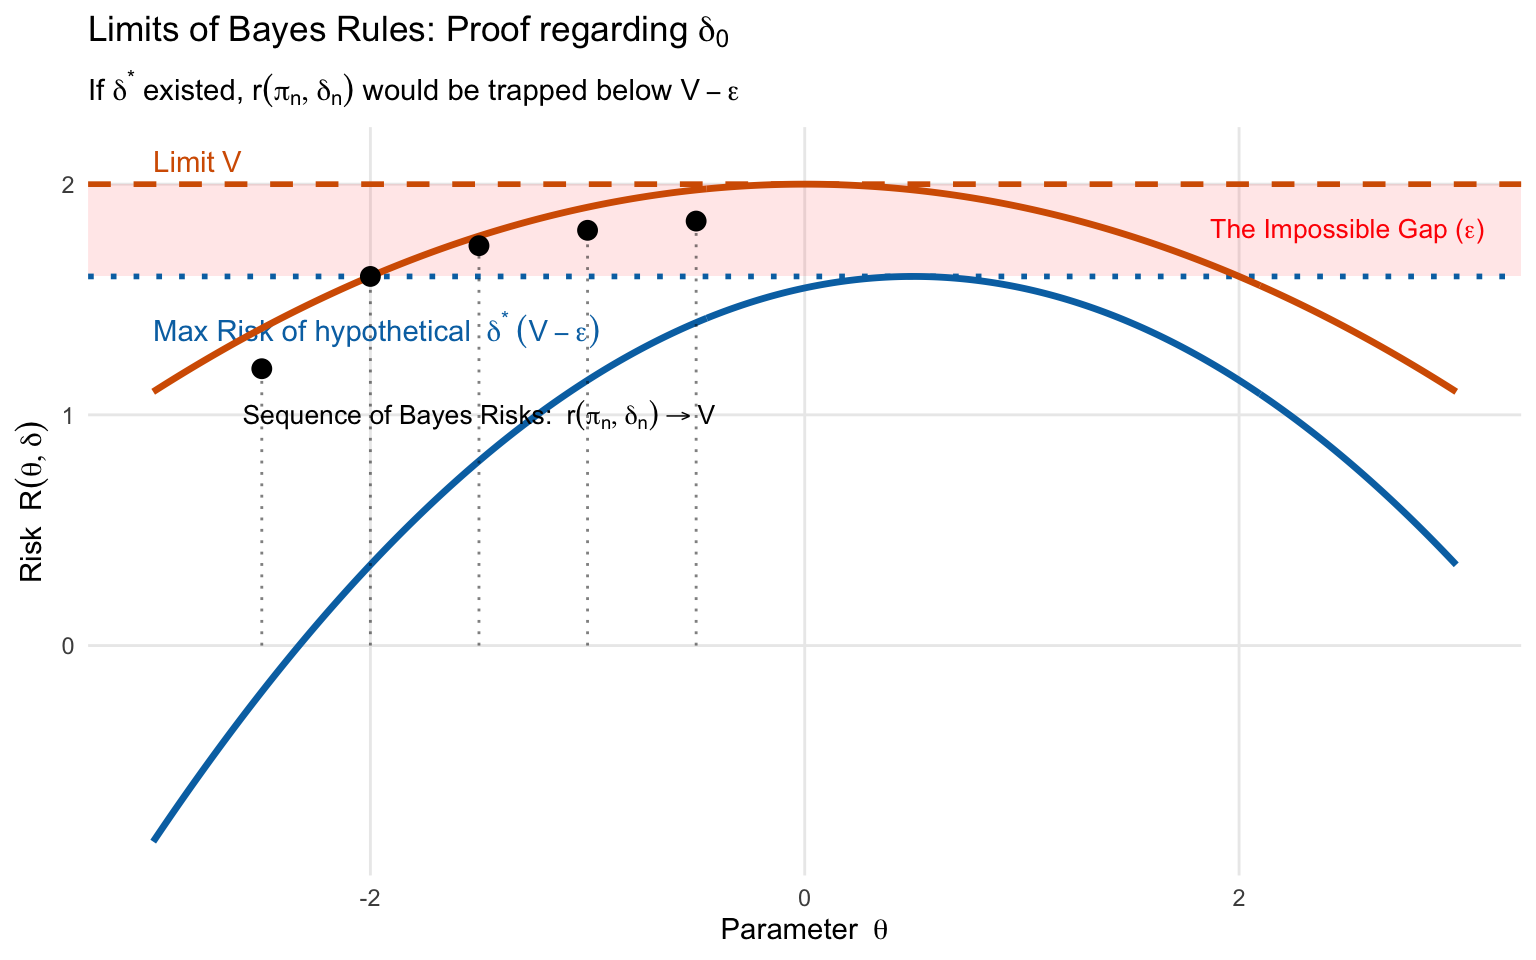
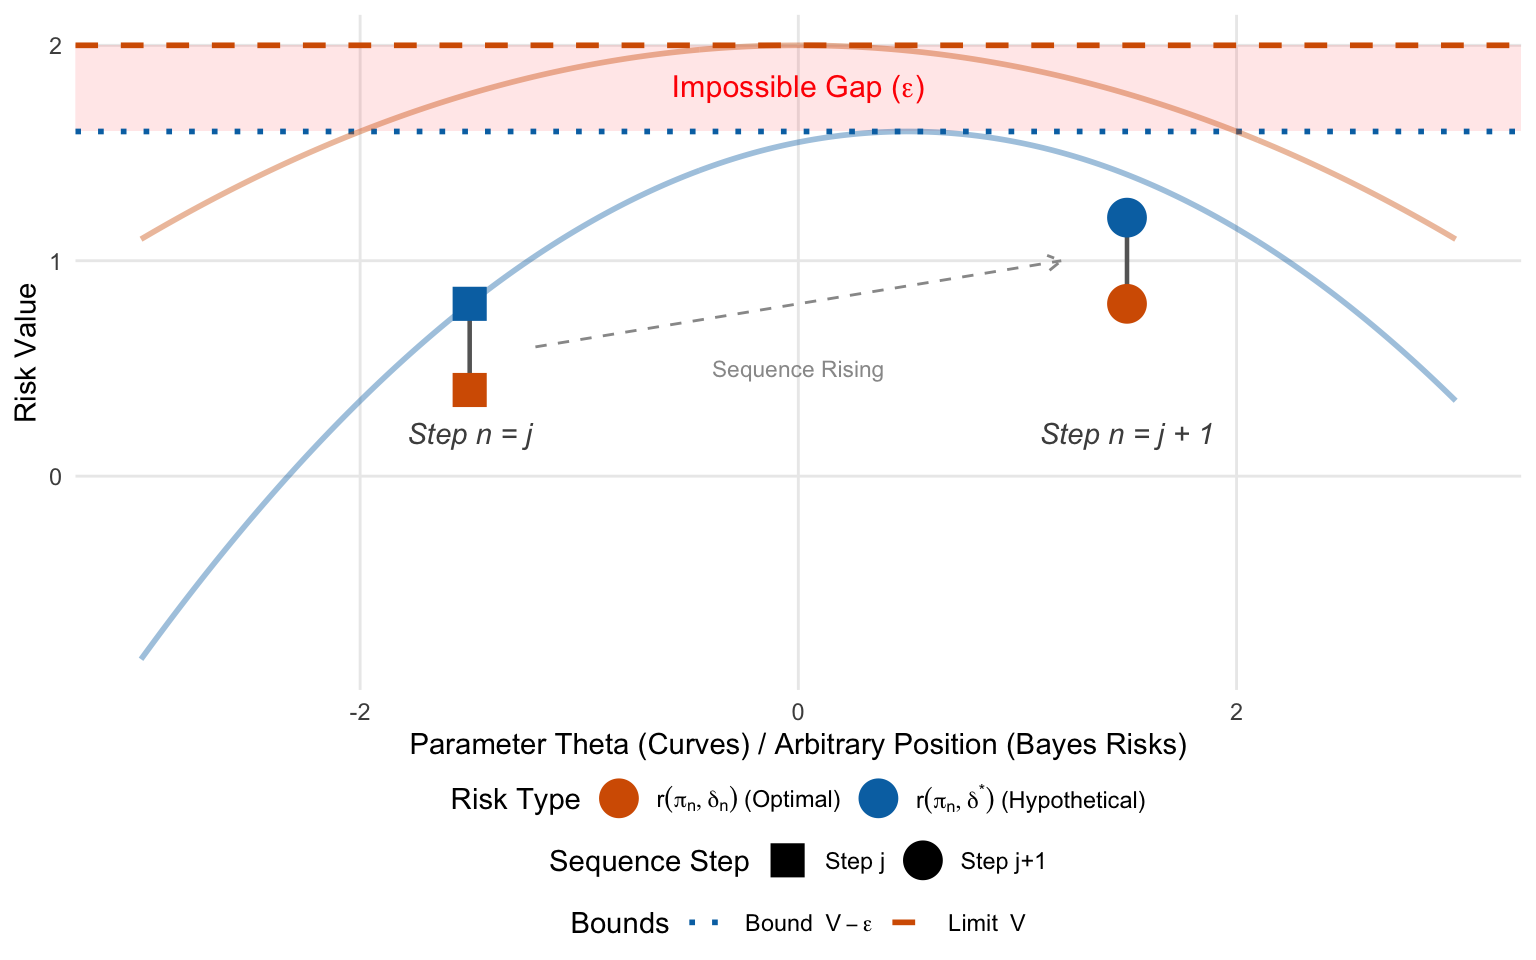
syn2GH from Y3J7JJ9PPF

diff --git a/teaching/stat850/mathstat/decision.html b/teaching/stat850/mathstat/decision.html
@@ -242,7 +242,7 @@ window.Quarto = {
   <li><a href="#theorems-relating-minimax-and-bayes-rules" id="toc-theorems-relating-minimax-and-bayes-rules" class="nav-link" data-scroll-target="#theorems-relating-minimax-and-bayes-rules"><span class="header-section-number">2.7</span> Theorems Relating Minimax and Bayes Rules</a>
   <ul>
   <li><a href="#constant-risk-bayes-rule-is-minimax" id="toc-constant-risk-bayes-rule-is-minimax" class="nav-link" data-scroll-target="#constant-risk-bayes-rule-is-minimax"><span class="header-section-number">2.7.1</span> Constant Risk Bayes Rule Is Minimax</a></li>
-  <li><a href="#limits-of-bayes-rules" id="toc-limits-of-bayes-rules" class="nav-link" data-scroll-target="#limits-of-bayes-rules"><span class="header-section-number">2.7.2</span> Limits of Bayes Rules</a></li>
+  <li><a href="#minimaxity-via-limiting-bayes-risks" id="toc-minimaxity-via-limiting-bayes-risks" class="nav-link" data-scroll-target="#minimaxity-via-limiting-bayes-risks"><span class="header-section-number">2.7.2</span> Minimaxity via Limiting Bayes Risks</a></li>
   <li><a href="#admissibility-of-bayes-rules" id="toc-admissibility-of-bayes-rules" class="nav-link" data-scroll-target="#admissibility-of-bayes-rules"><span class="header-section-number">2.7.3</span> Admissibility of Bayes Rules</a></li>
   <li><a href="#admissibility-of-unique-bayes-rules" id="toc-admissibility-of-unique-bayes-rules" class="nav-link" data-scroll-target="#admissibility-of-unique-bayes-rules"><span class="header-section-number">2.7.4</span> Admissibility of Unique Bayes Rules</a></li>
   </ul></li>
@@ -737,32 +737,31 @@ Figure&nbsp;2.5: Visual Proof: Any alternative estimator (Blue) with Bayes risk 
 </div>
 </div>
 </section>
-<section id="limits-of-bayes-rules" class="level3" data-number="2.7.2">
-<h3 data-number="2.7.2" class="anchored" data-anchor-id="limits-of-bayes-rules"><span class="header-section-number">2.7.2</span> Limits of Bayes Rules</h3>
+<section id="minimaxity-via-limiting-bayes-risks" class="level3" data-number="2.7.2">
+<h3 data-number="2.7.2" class="anchored" data-anchor-id="minimaxity-via-limiting-bayes-risks"><span class="header-section-number">2.7.2</span> Minimaxity via Limiting Bayes Risks</h3>
 <p>Sometimes the Minimax rule corresponds to an “improper” prior (a prior that does not integrate to 1, like a uniform distribution on the real line). We approach these via a limiting sequence.</p>
 <div id="thm-limits" class="theorem">
-<p><span class="theorem-title"><strong>Theorem 2.2 (Limits of Bayes Rules)</strong></span> Let <span class="math inline">\(\{\delta_n\}\)</span> be a sequence of Bayes rules with respect to priors <span class="math inline">\(\{\pi_n\}\)</span>. Let <span class="math inline">\(r(\pi_n, \delta_n)\)</span> be the associated Bayes risks. If there exists a rule <span class="math inline">\(\delta_0\)</span> such that: <span class="math display">\[\sup_{\theta} R(\theta, \delta_0) \le \lim_{n \to \infty} r(\pi_n, \delta_n)\]</span> Then <span class="math inline">\(\delta_0\)</span> is Minimax.</p>
+<p><span class="theorem-title"><strong>Theorem 2.2 (Minimaxity of Limit-Attaining Rules)</strong></span> Let <span class="math inline">\(\{\delta_n\}\)</span> be a sequence of Bayes rules with respect to priors <span class="math inline">\(\{\pi_n\}\)</span>. Let <span class="math inline">\(r(\pi_n, \delta_n)\)</span> be the associated Bayes risks. If there exists a rule <span class="math inline">\(\delta_0\)</span> such that: <span class="math display">\[\sup_{\theta} R(\theta, \delta_0) \le \lim_{n \to \infty} r(\pi_n, \delta_n)\]</span> Then <span class="math inline">\(\delta_0\)</span> is Minimax.</p>
 </div>
 <div class="proof">
 <p><span class="proof-title"><em>Proof</em>. </span></p>
 <ol type="1">
 <li><p><strong>Define Limit:</strong> Let <span class="math inline">\(V = \lim_{n \to \infty} r(\pi_n, \delta_n)\)</span>. We are given that <span class="math inline">\(\sup_{\theta} R(\theta, \delta_0) \le V\)</span>.</p></li>
 <li><p><strong>Contradiction Setup:</strong> Suppose <span class="math inline">\(\delta_0\)</span> is <em>not</em> Minimax. Then there exists a rule <span class="math inline">\(\delta^*\)</span> such that: <span class="math display">\[\sup_{\theta} R(\theta, \delta^*) &lt; \sup_{\theta} R(\theta, \delta_0) \le V\]</span> Let <span class="math inline">\(\sup_{\theta} R(\theta, \delta^*) = V - \epsilon\)</span> for some <span class="math inline">\(\epsilon &gt; 0\)</span>.</p></li>
-<li><p><strong>Bayes Risk Bound:</strong> For any prior <span class="math inline">\(\pi_n\)</span>, the Bayes risk of <span class="math inline">\(\delta^*\)</span> cannot exceed its maximum risk: <span class="math display">\[r(\pi_n, \delta^*) = \int R(\theta, \delta^*) \pi_n(\theta) d\theta \le \int (V - \epsilon) \pi_n(\theta) d\theta = V - \epsilon\]</span></p></li>
-<li><p><strong>Optimality of <span class="math inline">\(\delta_n\)</span>:</strong> Since <span class="math inline">\(\delta_n\)</span> is the Bayes rule for <span class="math inline">\(\pi_n\)</span>, it minimizes Bayes risk. Thus: <span class="math display">\[r(\pi_n, \delta_n) \le r(\pi_n, \delta^*)\]</span></p></li>
-<li><p><strong>Combining Inequalities:</strong> Combining steps 3 and 4: <span class="math display">\[r(\pi_n, \delta_n) \le V - \epsilon\]</span></p></li>
-<li><p><strong>Taking Limits:</strong> Taking the limit as <span class="math inline">\(n \to \infty\)</span>: <span class="math display">\[\lim_{n \to \infty} r(\pi_n, \delta_n) \le V - \epsilon\]</span> <span class="math display">\[V \le V - \epsilon\]</span> This is a contradiction since <span class="math inline">\(\epsilon &gt; 0\)</span>. Therefore, <span class="math inline">\(\delta_0\)</span> must be Minimax. <span class="math inline">\(\blacksquare\)</span></p></li>
+<li><p><strong>Bounded Risk of <span class="math inline">\(\delta^*\)</span>:</strong> The Bayes risk of <span class="math inline">\(\delta^*\)</span> is bounded by its maximum risk: <span class="math display">\[r(\pi_n, \delta^*) = \int R(\theta, \delta^*) \pi_n(\theta) d\theta \le V - \epsilon\]</span> Therefore, <span class="math inline">\(\lim_{n \to \infty} r(\pi_n, \delta^*) \le V - \epsilon\)</span>.</p></li>
+<li><p><strong>Optimality of <span class="math inline">\(\delta_n\)</span>:</strong> Since <span class="math inline">\(\delta_n\)</span> is the Bayes rule for <span class="math inline">\(\pi_n\)</span>, it minimizes Bayes risk. This creates the inequality pair shown in the figure (Orange <span class="math inline">\(\le\)</span> Blue): <span class="math display">\[r(\pi_n, \delta_n) \le r(\pi_n, \delta^*)\]</span></p></li>
+<li><p><strong>The Contradiction:</strong> Combining the inequalities, we get: <span class="math display">\[\lim_{n \to \infty} r(\pi_n, \delta_n) \le \lim_{n \to \infty} r(\pi_n, \delta^*) \le V - \epsilon\]</span> This implies <span class="math inline">\(V \le V - \epsilon\)</span>, which is impossible. Thus <span class="math inline">\(\delta_0\)</span> must be Minimax. <span class="math inline">\(\blacksquare\)</span></p></li>
 </ol>
 </div>
-<div class="cell">
+<div class="cell" data-layout-align="center">
 <div class="cell-output-display">
-<div id="fig-visualize-limit-bayes" class="quarto-float quarto-figure quarto-figure-center anchored">
+<div id="fig-visualize-limit-bayes" class="quarto-float quarto-figure quarto-figure-center anchored" data-fig-align="center">
 <figure class="quarto-float quarto-float-fig figure">
 <div aria-describedby="fig-visualize-limit-bayes-caption-0ceaefa1-69ba-4598-a22c-09a6ac19f8ca">
-<img src="decision_files/figure-html/fig-visualize-limit-bayes-1.png" class="img-fluid figure-img" width="768">
+<img src="decision_files/figure-html/fig-visualize-limit-bayes-1.png" class="img-fluid quarto-figure quarto-figure-center figure-img" width="768">
 </div>
 <figcaption class="quarto-float-caption-bottom quarto-float-caption quarto-float-fig" id="fig-visualize-limit-bayes-caption-0ceaefa1-69ba-4598-a22c-09a6ac19f8ca">
-Figure&nbsp;2.6: Visual Proof by Contradiction: The ‘Gap’ that proves <span class="math inline">\(\delta_0\)</span> is Minimax
+Figure&nbsp;2.6: Visual Proof: We examine the Bayes risks at two steps, <span class="math inline">\(n=j\)</span> (squares) and <span class="math inline">\(n=j+1\)</span> (circles). In both steps, the optimal risk <span class="math inline">\(r(\pi_n, \delta_n)\)</span> (orange) must be lower than the hypothetical risk <span class="math inline">\(r(\pi_n, \delta^*)\)</span> (blue). Even as the sequence rises (j+1 is higher than j), the blue points are capped by the bound <span class="math inline">\(V-\epsilon\)</span>. This ‘traps’ the orange points, making it impossible for them to ever reach the Limit V.
 </figcaption>
 </figure>
 </div>
